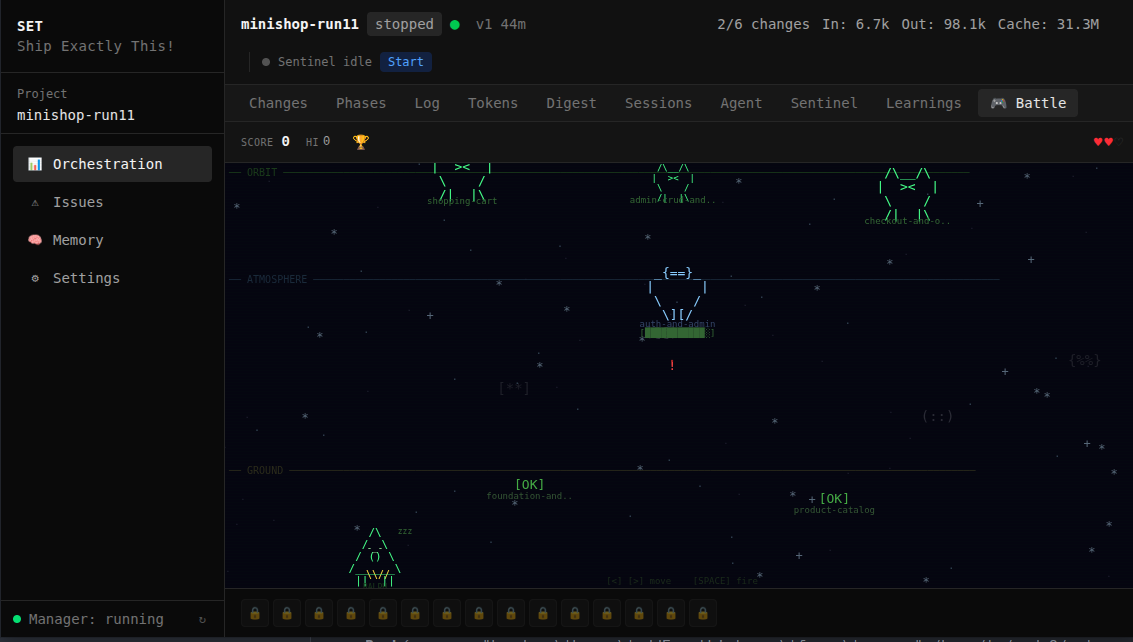
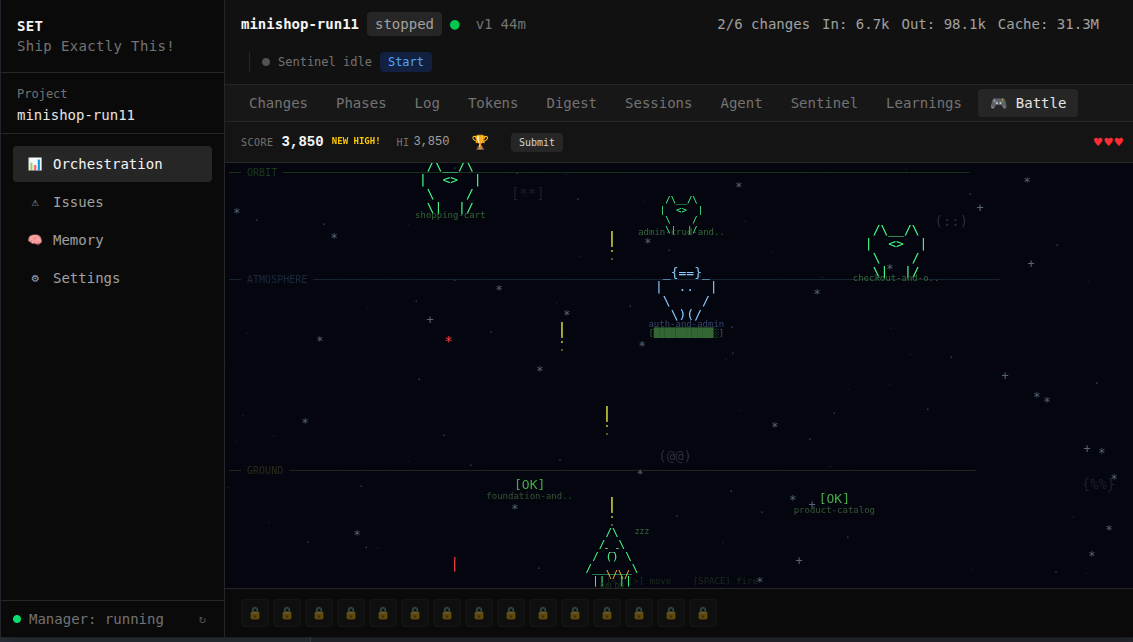
docs: update stats (134K LOC, 720h runtime), manifesto, timeline
- README "Why This Matters" section: full manifesto (team replacement,
  enterprise readiness, don't blame the model, community call)
- Stats corrected: 134K LOC (was 56K — missing GUI, shell, specs, docs),
  720+ hours autonomous runtime (was 50h)
- Tech stack split: core orchestration vs tooling ecosystem vs modules
- set-spec-capture linked in tooling section
- Development timeline: 15 phases from wt-tools to release
- Battle screenshot updated (better version with score 1,058)

diff --git a/docs/learn/journey.md b/docs/learn/journey.md
@@ -1,66 +1,123 @@
+[< Back to Index](../INDEX.md)
+
 # Development Journey
 
-How set-core evolved from a handful of git worktree scripts into a full autonomous orchestration framework.
+**1,294 commits · 329 archived changes · 363 specs · 79 days**
 
----
+set-core was built with set-core. Every feature was planned through OpenSpec, implemented by agents, and validated through quality gates.
 
 ## By The Numbers
 
 | Metric | Value |
 |--------|-------|
-| Total commits | 1,287 |
-| Capability specs | 363 |
-| Python (engine + API) | 44,000 LOC |
-| TypeScript (dashboard) | 12,700 LOC |
-| E2E orchestration runs | 30+ |
-| Quality gate types | 6 |
+| Development | 950+ hours across 79 days (Jan 9 – Mar 28, 2026) |
+| Commits | 1,294 (~16/day) |
+| Capability specifications | 363 |
+| Archived OpenSpec changes | 329 |
+| Total codebase | 134K LOC |
+| — Python (engine, GUI, modules) | 59,000 |
+| — Shell scripts (CLI tools) | 15,000 |
+| — TypeScript (dashboard) | 14,000 |
+| — OpenSpec specs | 23,000 |
+| — Docs + templates + rules | 22,000 |
+| Autonomous agent runtime | 720+ hours (~60 days × 12h/day continuous) |
+| Best benchmark | CraftBrew run #7: 14/14 merged (100%) |
 
----
+## Development Timeline
+
+### Phase 1: Worktree Tools (Jan 9–24)
+
+The project began as **wt-tools** — bash CLI scripts for managing parallel Claude Code agents via git worktrees. `wt-new`, `wt-work`, `wt-list`, `wt-close`, `wt-merge`. JIRA integration, file activity tracking, multi-machine worklog support.
+
+**Key insight:** Git worktrees are the natural unit of parallel AI agent work — real branches, real isolation, real merges.
+
+### Phase 2: GUI Control Center + Team Sync (Jan 24–29)
+
+30+ changes in one week: PyQt-based Control Center (worktree table, status indicators, running animations), team sync (multi-agent messaging), multi-editor support (VS Code, Zed, Cursor), context menu system.
+
+**Key insight:** Developers need visual feedback when managing multiple parallel agents. CLI-only doesn't scale.
+
+### Phase 3: Memory Integration (Feb 11–17)
+
+Integrated shodh-memory across the entire workflow. GUI memory browser, OpenSpec lifecycle hooks, proactive mid-flow recall. Fixed RocksDB lock contention causing silent data loss.
+
+Built the CraftBazaar benchmark — synthetic test protocol measuring memory effectiveness. Six benchmark runs achieved **+34% weighted improvement** with memory enabled.
+
+**Key insight:** Agents don't save memories voluntarily (zero saves observed across 15+ sessions). Infrastructure must handle it via hooks.
+
+### Phase 4: Ralph Loop + Autonomous Agents (Feb 15–19)
+
+Built the Ralph Loop — autonomous agent iterations with stall detection, done criteria, and per-change iteration tracking. Built the 5-layer hook architecture (frustration detection, commit-save, transcript extraction, branch-aware tagging).
+
+**Key insight:** Single-shot agent prompts fail on complex tasks. Iterative loops with trend detection and auto-pause are the reliable pattern.
+
+### Phase 5: Orchestration Engine (Feb 25–27)
+
+The architectural leap: **set-orchestrate** — accepts a spec, decomposes via LLM into a dependency DAG, dispatches to parallel worktrees, monitors, and auto-replans. Token budgets, time limits, audit system.
+
+**Key insight:** This was the transition from "tool that helps developers" to "autonomous framework that builds projects from specs."
+
+### Phase 6: Sentinel + Merge Pipeline (Mar 2–8)
+
+Built the sentinel supervisor — non-blocking polls, crash diagnosis, auto-restart. Hardened merge pipeline: sequential queue, post-merge smoke testing, empty-merge detection.
+
+Decomposed the monolithic orchestrator into 7 library modules. Built the events system, watchdog escalation chains, quality gate hooks. Created the MiniShop E2E test scaffold.
+
+**Key insight:** Three-tier supervision (sentinel → orchestrator → agents) enables overnight unattended runs. The auto-kill incident taught us: unreliable heuristics destroy work — use deterministic gates instead.
+
+### Phase 7: Verification + Spec Coverage (Mar 8–15)
+
+Multi-file spec digestion, requirement-level coverage tracking, HTML reporting. Intensive E2E benchmarks (runs #3–5) surfaced dozens of bugs: token tracking, watchdog false positives, zombie cleanup.
+
+**Key insight:** Complex specs (CraftBrew: 15+ changes, Figma designs, i18n) require spec-level verification, not just "do tests pass."
+
+### Phase 8: Production-Grade (Mar 15–21)
+
+Merge integrity protection (conservation check, entity counting). Context-aware merge with LLM conflict resolution. Cumulative review feedback. Integrate-then-verify pipeline.
+
+**CraftBrew run #7: 14/14 merged — first 100% completion on a complex multi-file spec.**
+
+Renamed the project from **wt-tools to SET (Ship Exactly This)**.
+
+**Key insight:** The 100% CraftBrew completion proved the system works end-to-end. The rename reflected the evolved identity.
+
+### Phase 9: Modular Architecture + Web Dashboard (Mar 21–25)
+
+Monorepo module migration (3 repos → 1). Profile-driven gate registry. Issue management engine with detection bridge. Web dashboard with unified navigation, sentinel launch, Discord integration. Process manager with tree view.
+
+**Key insight:** The architecture crystallized into three layers (core/modules/plugins). The web dashboard became an operations center, not just a status display.
+
+### Phase 10: Auto-Fix + Release (Mar 25–28)
+
+Auto-fix pipeline — investigation agents diagnose and fix problems autonomously. Three-layer template system for divergence reduction (63% → 0% file structure divergence). Unified web service on a single port. Automated screenshot pipeline. Full documentation rewrite.
+
+**19 active changes in flight, 329 archived.** The Battle View game was born.
+
+**Key insight:** The auto-fix pipeline closed the last gap — when gates fail, the system diagnoses and fixes without human intervention.
 
 ## Architecture Evolution
 
-### Phase 1: Git Worktree Management
+```
+Jan:  CLI scripts (bash)           → "worktree management tools"
+Feb:  GUI + Memory + Ralph Loop    → "agent development environment"
+Mar:  Orchestration + Sentinel     → "autonomous development framework"
+      + Gates + Web + Auto-Fix     → "self-healing orchestration system"
+```
 
-The first tools were simple shell scripts: `set-new`, `set-work`, `set-close`. They wrapped `git worktree` commands so that parallel development branches could be created and destroyed without manual bookkeeping. This solved the immediate problem of agents stepping on each other's code.
-
-### Phase 2: Orchestration Engine
-
-The core pipeline emerged: digest a spec, decompose it into changes with dependency graphs, dispatch each change to a worktree agent, and merge results back to main. The planner uses Claude to break a product spec into 5-15 implementation changes, each with explicit inputs/outputs and test requirements.
-
-### Phase 3: Autonomous Sentinel Supervisor
-
-A sentinel process was added to supervise the orchestrator end-to-end. It handles crash recovery, automatic restarts, stall detection via hash-based watchdogs, and PID management. This removed the need for a human to babysit multi-hour runs.
-
-### Phase 4: Quality Gates
-
-Six gate types were introduced to enforce correctness before any merge: unit test, build, E2E (Playwright), code review, smoke test, and spec coverage verification. Gates are deterministic — they run real commands and check exit codes, not LLM opinions. Every change must pass all applicable gates before it touches main.
-
-### Phase 5: Web Dashboard and Real-Time Monitoring
-
-A Next.js dashboard replaced the terminal TUI for monitoring orchestration runs. It shows live phase progress, token usage charts, change status with gate icons, session logs, and duration calculations. The dashboard reads from the same API that powers the engine, so it always reflects ground truth.
-
-### Phase 6: Modular Plugin System
-
-The project consolidated from three separate repos (set-core, set-project-base, set-project-web) into a single monorepo with a plugin architecture. Layer 1 (`lib/set_orch/`) provides abstract orchestration; Layer 2 (`modules/`) implements project-type specifics like Next.js detection, Playwright configuration, and Prisma patterns. External plugins register via Python entry points.
-
-### Phase 7: Persistent Memory and Team Sync
-
-A memory system was added so that agents retain context across sessions — known bugs, design decisions, user preferences. Memories are automatically injected into prompts based on topic relevance. Team sync enables cross-agent messaging so that parallel worktree agents can coordinate without conflicting.
-
----
+Each phase was driven by real failures in real E2E runs — not theoretical design.
 
 ## Key Insights
 
-- **Agents need structure (OpenSpec), not just prompts.** Without a formal artifact workflow (proposal, design, spec, tasks, code), agents produce inconsistent output. OpenSpec forces each change through the same pipeline, making results predictable and verifiable.
-
-- **Quality gates must be deterministic, not LLM-judged.** Early attempts at LLM-based code review as a merge gate were unreliable — the model would approve broken code or reject correct code depending on context length. Switching to real commands (`pnpm test`, `pnpm build`, `npx playwright test`) with binary pass/fail made the pipeline trustworthy.
-
-- **Merge conflicts are the number one source of cascading failures.** In the CraftBrew run (15 changes), cross-cutting files like `prisma/schema.prisma` caused merge conflicts that lost entire model definitions. One bad merge resolution cascaded into runtime 500 errors across multiple features. Conflict handling must be automated and verified, not left to manual resolution.
-
-- **Memory without save hooks is useless — agents do not save voluntarily.** When memory was opt-in ("call `remember` when you learn something"), agents almost never did. Automatic extraction from conversation transcripts, combined with topic-based injection on every prompt, made memory actually work.
-
-- **E2E testing the orchestrator itself reveals bugs no unit test catches.** Running the full pipeline against a real project (scaffold, plan, dispatch, build, test, merge) exposed stall conditions, race conditions in parallel merges, and state machine bugs that were invisible in isolated unit tests. The 30+ E2E runs were the primary debugging tool for the engine.
+1. **Structure beats prompts.** OpenSpec artifacts constrain agents more reliably than instructions.
+2. **Deterministic beats smart.** Exit-code gates catch what LLM review misses.
+3. **Merges are the danger zone.** Phase ordering and dependency DAGs prevent cascading conflicts.
+4. **Memory needs infrastructure.** Agents won't save voluntarily. Hooks at every lifecycle point.
+5. **E2E is the only real test.** Unit tests pass, orchestration runs fail — emergent behaviors.
+6. **Templates beat conventions.** Pre-deployed files eliminate 63% of output divergence.
+7. **The sentinel pays for itself.** 5–10 LLM calls per run saves hours of wasted compute.
 
 ---
 
-<!-- specs: orchestration-engine, sentinel-dashboard, gate-profiles -->
+*See also: [Benchmarks](benchmarks.md) · [Lessons Learned](lessons-learned.md) · [How It Works](how-it-works.md)*
+
+<!-- specs: orchestration-engine, sentinel-dashboard, gate-profiles, hook-driven-memory, modular-source-structure -->

diff --git a/README.md b/README.md
@@ -153,18 +153,29 @@ See [docs/guide/quick-start.md](docs/guide/quick-start.md) for detailed setup an
 
 ---
 
-## Technology Stack
+## Technology
 
-| Layer | Technologies |
-|-------|-------------|
-| **Orchestration engine** | Python, FastAPI, uvicorn |
-| **Web dashboard** | React, TypeScript, Tailwind CSS, Recharts |
-| **Agent runtime** | Claude Code (Anthropic), git worktrees |
-| **Quality gates** | Vitest, Playwright, ESLint |
-| **Design bridge** | Figma API → design-snapshot.md → Tailwind tokens |
+**Core orchestration:**
+
+| Component | Technology |
+|-----------|-----------|
+| **Agent runtime** | [Claude Code](https://claude.ai/code) (Anthropic) |
+| **Workflow** | [OpenSpec](https://github.com/fission-ai/openspec) — spec-driven artifact pipeline |
+| **Isolation** | Git worktrees — real branches, real merges |
+| **Engine** | Python, FastAPI, uvicorn |
+| **Dashboard** | React, TypeScript, Tailwind CSS |
 | **Memory** | shodh-memory (RocksDB + vector embeddings) |
-| **Voice notifications** | Soniox Speech-to-Text/Text-to-Speech (experimental) |
-| **Workflow** | OpenSpec CLI (@fission-ai/openspec) |
+| **Design bridge** | Figma MCP → design-snapshot.md → Tailwind tokens |
+
+**Tooling ecosystem:**
+
+| Tool | Purpose |
+|------|---------|
+| [set-spec-capture](https://github.com/tatargabor/set-spec-capture) | Capture specs from any source (web, PDF, conversation) |
+| set-figma-fetch | Fetch Figma designs as Tailwind token snapshots |
+| set-e2e-report | Generate benchmark reports from orchestration runs |
+
+**Built-in modules** add domain-specific technology (Next.js, Prisma, Playwright for web; Soniox STT, Google TTS for voice). See [Plugins](docs/reference/plugins.md).
 
 ---
 
@@ -178,27 +189,44 @@ The **web project type** (Next.js, Prisma, Playwright) ships built-in and is val
 
 | Metric | Value |
 |--------|-------|
-| Commits | 1,287 |
+| Development | 950+ hours across 79 days |
+| Commits | 1,294 (~16/day) |
 | Capability specs | 363 |
-| Python LOC (engine + API) | 44,000 |
-| TypeScript LOC (dashboard) | 12,000 |
-| E2E validation runs | 30+ across 4 scaffolds |
+| Codebase | 134K LOC (59K Python, 15K Shell, 14K TypeScript, 23K specs, 22K docs+templates) |
+| Autonomous agent runtime | 720+ hours continuous operation |
 | MiniShop benchmark | 6/6 merged, 0 interventions, 1h 45m |
 
-**2+ months of development. Worth every hour.** Full journey, benchmarks, and lessons: [docs/learn/journey.md](docs/learn/journey.md)
+**3 months. 950+ hours. Worth every one.** Full journey, benchmarks, and lessons: [docs/learn/journey.md](docs/learn/journey.md)
 
 ---
 
-## The Vision
+## Why This Matters
 
-Systems like set-core are the next step beyond single-agent coding tools. Model providers will eventually build orchestration into their platforms — and we welcome that. But we're not waiting.
+**Systems like SET can do the work of a full development team** — given the right specification and properly developed project types. Period.
 
-By building and using these systems now, we:
-- **Shape the tools to our needs** — not wait for a vendor's roadmap
-- **Accumulate domain-specific knowledge** — in project types, templates, and memory
-- **Share what works** — the core improves for everyone, custom types stay private
+This is not the future. This is the present. The sooner we move in this direction, the sooner we'll see what software development actually becomes — instead of clinging to the assumption that manual development or even manual code review should remain the default.
 
-**This needs a community.** The web project type is public and battle-tested. We need more project types, more scaffolds, more E2E runs, more divergence research. If you build with Claude Code and want structured orchestration — [join us](https://github.com/tatargabor/set-core/issues).
+### Don't blame the model
+
+Claude Code is extraordinarily capable. But we can't expect it to guess what we haven't specified. When the model fills in gaps we left empty, we call it "hallucination" — but most of the time, it's **underspecification on our side**. The frustration of repeated errors, unexpected behavior, inconsistent output — 90% of this comes from insufficient context, not model limitation.
+
+And even with detailed, multi-hundred-page specifications, we cannot guarantee that the model treats every character with equal priority during implementation. This is precisely why systems like SET exist: to **enforce, verify, and check** that the model understood and executed what we intended. OpenSpec structures the work. Quality gates verify the output. The sentinel investigates before it fixes. No guessing.
+
+### Enterprise is next
+
+Banks, government, defense, regulated industries — they can't use cloud-hosted models today. But this will change. On-premise models, secure multi-tenant systems, hybrid architectures — the infrastructure is coming. Some organizations are already preparing.
+
+**The responsible thing for every enterprise is to prepare now** — before the models arrive on their infrastructure. Learn orchestration patterns. Build project types for your domain. Develop the muscle memory for spec-driven development. Don't wait for the infrastructure to be ready; be ready when it arrives.
+
+### This needs a community
+
+We built set-core to solve our own problems. The web project type is public and battle-tested. But the real power comes from **domain-specific project types** — fintech with IDOR rules, healthcare with HIPAA compliance, e-commerce with payment flow gates.
+
+Model providers (Anthropic included) will build orchestration into their platforms — we welcome that. These middleware layers are destined to become first-party features. But that doesn't mean we shouldn't build them ourselves: this is how we **shape the tools to our needs** and accumulate knowledge that vendor-generic solutions can't provide.
+
+**Start now.** There will be bugs. But this is a self-healing system — the sentinel detects, investigates, and fixes. The more people use it, the faster it improves.
+
+[Join us →](https://github.com/tatargabor/set-core/issues) · [Email](mailto:gabor@setcode.dev)
 
 ---
 
